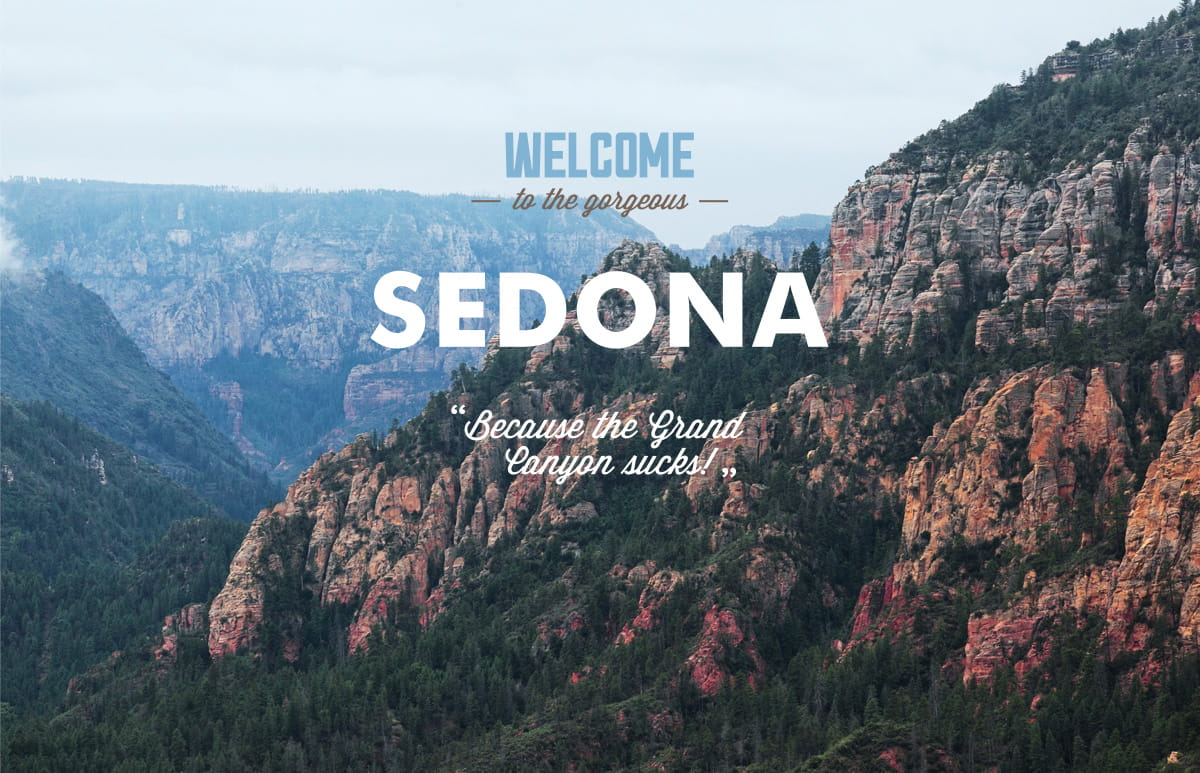
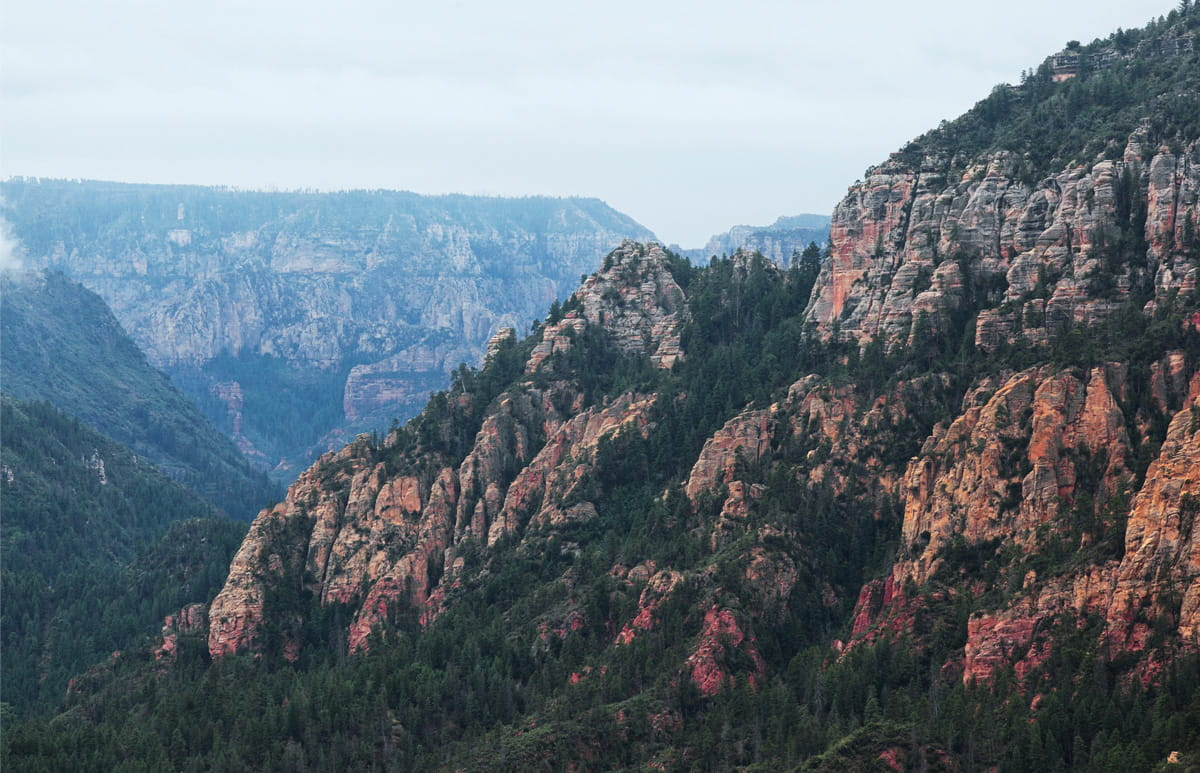
Итоговая вёрстка главного меню и блока intro

Changed region(s): [[0.3083, 0.3415, 0.7092, 0.4657], [0.4008, 0.1552, 0.5858, 0.2794], [0.37, 0.5278, 0.6167, 0.621]]

diff --git a/css/style.css b/css/style.css
@@ -16,6 +16,26 @@ a {
   text-decoration: none;
 }
 
+img {
+  max-width: 100%;
+  height: auto;
+}
+
+.visually-hidden:not(:focus):not(:active), input[type="checkbox"].visually-hidden, input[type="radio"].visually-hidden {
+  position: absolute;
+
+  width: 1px;
+  height: 1px;
+  margin: -1px;
+  padding: 0;
+
+  border: 0;
+  white-space: nowrap;
+  clip-path: inset(100%);
+  clip: rect(0 0 0 0);
+  overflow: hidden;
+}
+
 .wrap {
   width: 1200px;
   margin: 0 auto;
@@ -35,23 +55,51 @@ a {
   border: none;
 }
 
+.header {
+  padding: 0 73px;
+}
+
 .main-nav {
+  position: relative;
+  z-index: 10;
+
   display: flex;
+  align-items: center;
+  justify-content: center;
+  height: 56px;
 }
 
 .main-header-logo {
+  order: 1;
+  align-self: flex-start;
   width: 138px;
   height: 71px;
 }
 
 .site-nav {
+  display: flex;
+  justify-content: space-between;
+  width: 460px;
   padding: 0;
   margin: 0;
 
   list-style: none;
 }
 
+.site-nav-right {
+  order:2;
+}
+
+.site-nav-left li:last-child {
+  margin-right: 130px;
+}
+
+.site-nav-right li:first-child {
+  margin-left: 130px;
+}
+
 .site-nav a {
+  display: block;
   font-weight: 700;
 
   color: #000000;
@@ -71,12 +119,29 @@ a {
 }
 
 .intro {
+  position: relative;
+
   min-height: 510px;
   margin-bottom: 60px;
 
-  background-image: url("../img/jpg/background-intro.jpg");
+  background-image: 
+    url("../img/welcome-intro.png"),
+    url("../img/jpg/background-intro.jpg");
+  background-repeat: no-repeat, no-repeat;
+  background-position: center, top;
+}
+
+.intro::after {
+  content: "";
+  position: absolute;
+  bottom: -2px;
+
+  width: 1200px;
+  height: 59px;
+
+  background-image: url("../img/intro-polygon.png");
   background-repeat: no-repeat;
-  background-position: center;
+  background-position: 0 0;
 }
 
 .page-title {

diff --git a/inner.html b/inner.html
@@ -11,14 +11,16 @@
     <div class="wrap">
       <header class="header">
         <nav class="main-nav">
-          <a class="main-header-logo" href="index.html">
+          <a href="index.html" class="main-header-logo">
             <img src="img/svg/logo/logo-sedona.svg" width="138" height="71" alt="Логотип Седона">
           </a>
-          <ul class="site-nav">
+          <ul class="site-nav site-nav-left">
             <li><a href="#">Информация</a></li>
             <li><a href="#">Фото и видео</a></li>
+          </ul>
+          <ul class="site-nav site-nav-right">
             <li><a href="#">Карта штата</a></li>
-            <li class="site-nav-current"><a href="#">Гостиницы</a></li>
+            <li><a href="inner.html">Гостиницы</a></li>
           </ul>
         </nav>
       </header>

diff --git a/index.html b/index.html
@@ -14,9 +14,11 @@
           <a href="index.html" class="main-header-logo">
             <img src="img/svg/logo/logo-sedona.svg" width="138" height="71" alt="Логотип Седона">
           </a>
-          <ul class="site-nav">
+          <ul class="site-nav site-nav-left">
             <li><a href="#">Информация</a></li>
             <li><a href="#">Фото и видео</a></li>
+          </ul>
+          <ul class="site-nav site-nav-right">
             <li><a href="#">Карта штата</a></li>
             <li><a href="inner.html">Гостиницы</a></li>
           </ul>
